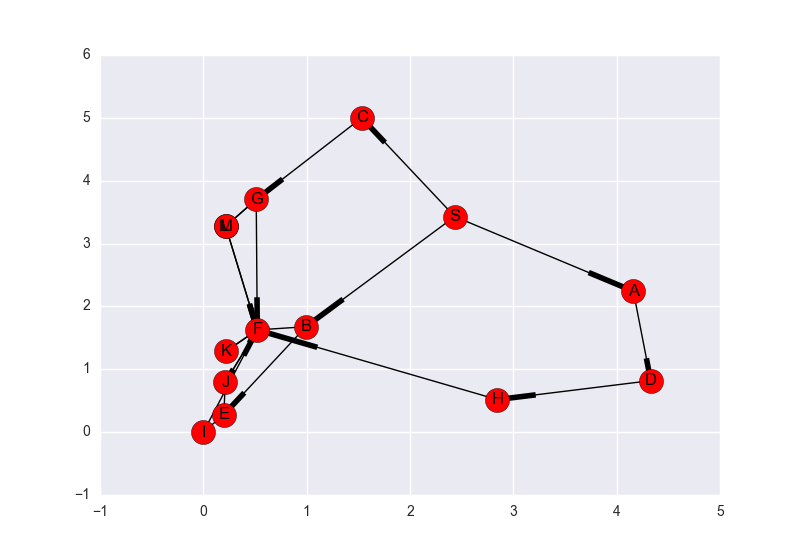
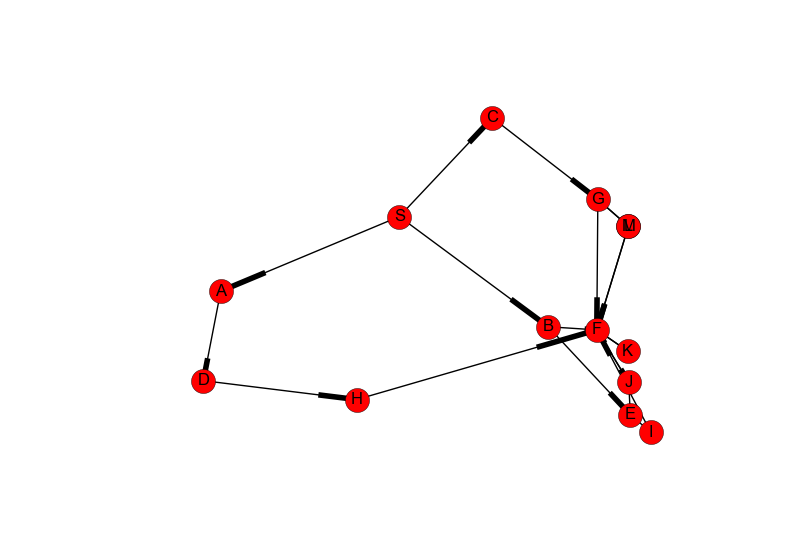
added writeup to hw3

diff --git a/hw3/willfarmer_hw3.py b/hw3/willfarmer_hw3.py
@@ -28,8 +28,12 @@ def main():
                     node_data = line.split('=')
                     g[node_data[0]].estimate = float(node_data[1])
     g.plot()
-    print(g.shortest_path_dijkstra('S', 'F'))
-    print(g.shortest_path_Astar('S', 'F'))
+    path, weight, previous, distances, nodes_eval = g.shortest_path_dijkstra('S', 'F')
+    print('Dijkstra Algorithm')
+    print('Path: {}\nwith weight: {}\n{} nodes evaluated'.format(path, weight, nodes_eval))
+    path, weight, previous, distances, nodes_eval = g.shortest_path_Astar('S', 'F')
+    print('A* Search')
+    print('Path: {}\nwith weight: {}\n{} nodes evaluated'.format(path, weight, nodes_eval))
 
 def get_args():
     parser = argparse.ArgumentParser()
@@ -127,6 +131,7 @@ class Graph(object):
         plt.figure()
         layout = nx.spectral_layout(g, weight=None, scale=5)
         nx.draw_networkx(g, layout)
+        plt.axis('off')
         plt.savefig('./graph.png')
 
     def add_node(self, name):
@@ -168,6 +173,8 @@ class Graph(object):
         return sorted(edges, key=lambda tup: tup[0])
 
     def shortest_path_Astar(self, s, e):
+        closed_set = set()
+        open_set = {s}
         q = self.q                                                        # setup queue
         distances = {name: self.inf for name in self.nodes}               # set distances
         previous = {name: None for name in self.nodes}                    # Establish previous: [None, ...]
@@ -180,15 +187,19 @@ class Graph(object):
             u = q.find_min()[0]                                           # find the smallest weight so far
             if u is None or u == e:                                       # if one doesn't exist, or we're at the end, we're done
                 break
+            open_set.discard(u)
+            closed_set.add(u)
             qc = [x[0] for x in q.queue]                                  # everything in queue
             for v in self.graph[u].neighbors:                             # examine neighbors of u
-                num_evaluated += 1
-                if v in qc:                                               # if we haven't looked at this neighbor yet
+                if (v in qc) and (v not in closed_set):                                               # if we haven't looked at this neighbor yet
+                    num_evaluated += 1
                     alt = distances[u] + self.graph[u].get_edge_weight(v) # what's its distance?
+                    if v not in open_set:
+                        open_set.add(v)
                     if alt < distances[v]:                                # if this distance is smaller than encountered so far
                         distances[v] = alt                                # set to current
                         previous[v] = u
-                        q.adjust(v, distances[v] + (heuristic[e] - heuristic[v]))                                  # adjust minheap
+                        q.adjust(v, distances[v] + self.graph[v].estimate)                                  # adjust minheap
         # Reconstruct shortest path
         if not any([v for k, v in previous.items()]):
             r = []
@@ -202,7 +213,7 @@ class Graph(object):
                 ne = previous[ne]
 
         if len(r) == 1 and r[len(r) - 1] != s:
-            return [], distances[e], previous, distances
+            return [], distances[e], previous, distances, num_evaluated
         return r, distances[e], previous, distances, num_evaluated
 
     def shortest_path_dijkstra(self, s, e):
@@ -218,8 +229,8 @@ class Graph(object):
                 break
             qc = [x[0] for x in q.queue]                                  # everything in queue
             for v in self.graph[u].neighbors:                             # examine neighbors of u
-                num_evaluated += 1
                 if v in qc:                                               # if we haven't looked at this neighbor yet
+                    num_evaluated += 1
                     alt = distances[u] + self.graph[u].get_edge_weight(v) # what's its distance?
                     if alt < distances[v]:                                # if this distance is smaller than encountered so far
                         distances[v] = alt                                # set to current

diff --git a/hw3/README.md b/hw3/README.md
@@ -1,0 +1,160 @@
+# Homework 3
+
+*THIS IS IN PYTHON 3!! [Examine its github page for installation
+instructions](https://github.com/willzfarmer/CSCI3202)*
+
+We are given a text file to generate a graph which looks like the following.
+
+```
+./Assignment3.txt
+---
+[S,A,5]
+[S,B,1]
+[S,C,4]
+[B,E,9]
+[B,F,6]
+[A,D,2]
+[C,G,4]
+[D,H,7]
+[E,I,6]
+[F,J,3]
+[F,K,4]
+[G,L,5]
+[G,M,8]
+[G,F,5]
+[J,E,4]
+[H,F,2]
+[I,F,2]
+[J,F,3]
+[K,F,4]
+[L,F,7]
+[M,F,2]
+
+A=5
+B=6
+C=4
+D=1
+E=7
+F=9
+G=6
+H=5
+I=4
+J=3
+K=2
+L=1
+M=3
+```
+
+Which is defining the nodes, edge weights, and heuristic for `A*` search of a
+directed graph. This graph can be represented graphically as well using
+[`networkx`](https://networkx.github.io).
+
+![png](./graph.png)
+
+We want to apply both [Dijkstra's
+Algorithm](https://en.wikipedia.org/wiki/Dijkstra%27s_algorithm) as well as
+[A* search](https://en.wikipedia.org/wiki/A*_search_algorithm) to find the
+optimal shortest path through this graph from `S` to `F`.
+
+Note, for both algorithms we're using a binary heap for efficiency.
+
+## Dijkstra's Algorithm
+
+We first implement dijkstra's algorithm.
+
+```python
+def shortest_path_dijkstra(self, s, e):
+    q = self.q                                                        # setup queue
+    distances = {name: self.inf for name in self.nodes}               # set distances
+    previous = {name: None for name in self.nodes}                    # Establish previous: [None, ...]
+    distances[s] = 0                                                  # Set source distance as zero
+    [q.push((k, v)) for k, v in distances.items()]                    # add everything to minheap
+    num_evaluated = 0
+    while len(q.queue) > 0:                                           # while we have things to look for
+        u = q.find_min()[0]                                           # find the smallest weight so far
+        if u is None or u == e:                                       # if one doesn't exist, or we're at the end, we're done
+            break
+        qc = [x[0] for x in q.queue]                                  # everything in queue
+        for v in self.graph[u].neighbors:                             # examine neighbors of u
+            if v in qc:                                               # if we haven't looked at this neighbor yet
+                num_evaluated += 1
+                alt = distances[u] + self.graph[u].get_edge_weight(v) # what's its distance?
+                if alt < distances[v]:                                # if this distance is smaller than encountered so far
+                    distances[v] = alt                                # set to current
+                    previous[v] = u
+                    q.adjust(v, alt)                                  # adjust minheap
+    # Reconstruct shortest path
+    if not any([v for k, v in previous.items()]):
+        r = []
+    else:
+        r = []
+        ne = e
+        while True:
+            r.insert(0, ne)
+            if previous[ne] is None:
+                break
+            ne = previous[ne]
+
+    if len(r) == 1 and r[len(r) - 1] != s:
+        return [], distances[e], previous, distances
+    return r, distances[e], previous, distances, num_evaluated
+```
+
+## A* Search
+
+We then implement A*.
+
+```python
+def shortest_path_Astar(self, s, e):
+    q = self.q                                                        # setup queue
+    distances = {name: self.inf for name in self.nodes}               # set distances
+    previous = {name: None for name in self.nodes}                    # Establish previous: [None, ...]
+    distances[s] = 0                                                  # Set source distance as zero
+    heuristic = {name: self.inf for name in self.nodes}
+    heuristic[s] = 0
+    [q.push((k, v)) for k, v in heuristic.items()]                    # add everything to minheap by heuristic
+    num_evaluated = 0
+    while len(q.queue) > 0:                                           # while we have things to look for
+        u = q.find_min()[0]                                           # find the smallest weight so far
+        if u is None or u == e:                                       # if one doesn't exist, or we're at the end, we're done
+            break
+        qc = [x[0] for x in q.queue]                                  # everything in queue
+        for v in self.graph[u].neighbors:                             # examine neighbors of u
+            if v in qc:                                               # if we haven't looked at this neighbor yet
+                num_evaluated += 1
+                alt = distances[u] + self.graph[u].get_edge_weight(v) # what's its distance?
+                if alt < distances[v]:                                # if this distance is smaller than encountered so far
+                    distances[v] = alt                                # set to current
+                    previous[v] = u
+                    q.adjust(v, distances[v] + (heuristic[e] - heuristic[v]))                                  # adjust minheap
+    # Reconstruct shortest path
+    if not any([v for k, v in previous.items()]):
+        r = []
+    else:
+        r = []
+        ne = e
+        while True:
+            r.insert(0, ne)
+            if previous[ne] is None:
+                break
+            ne = previous[ne]
+
+    if len(r) == 1 and r[len(r) - 1] != s:
+        return [], distances[e], previous, distances
+    return r, distances[e], previous, distances, num_evaluated
+```
+
+## Analysis
+
+We note that between Dijkstra and A*, A* was more efficient!
+
+```
+Dijkstra Algorithm
+Path: ['S', 'B', 'F']
+with weight: 7.0
+7 nodes evaluated
+A* Search
+Path: ['S', 'B', 'F']
+with weight: 7.0
+9 nodes evaluated
+```
